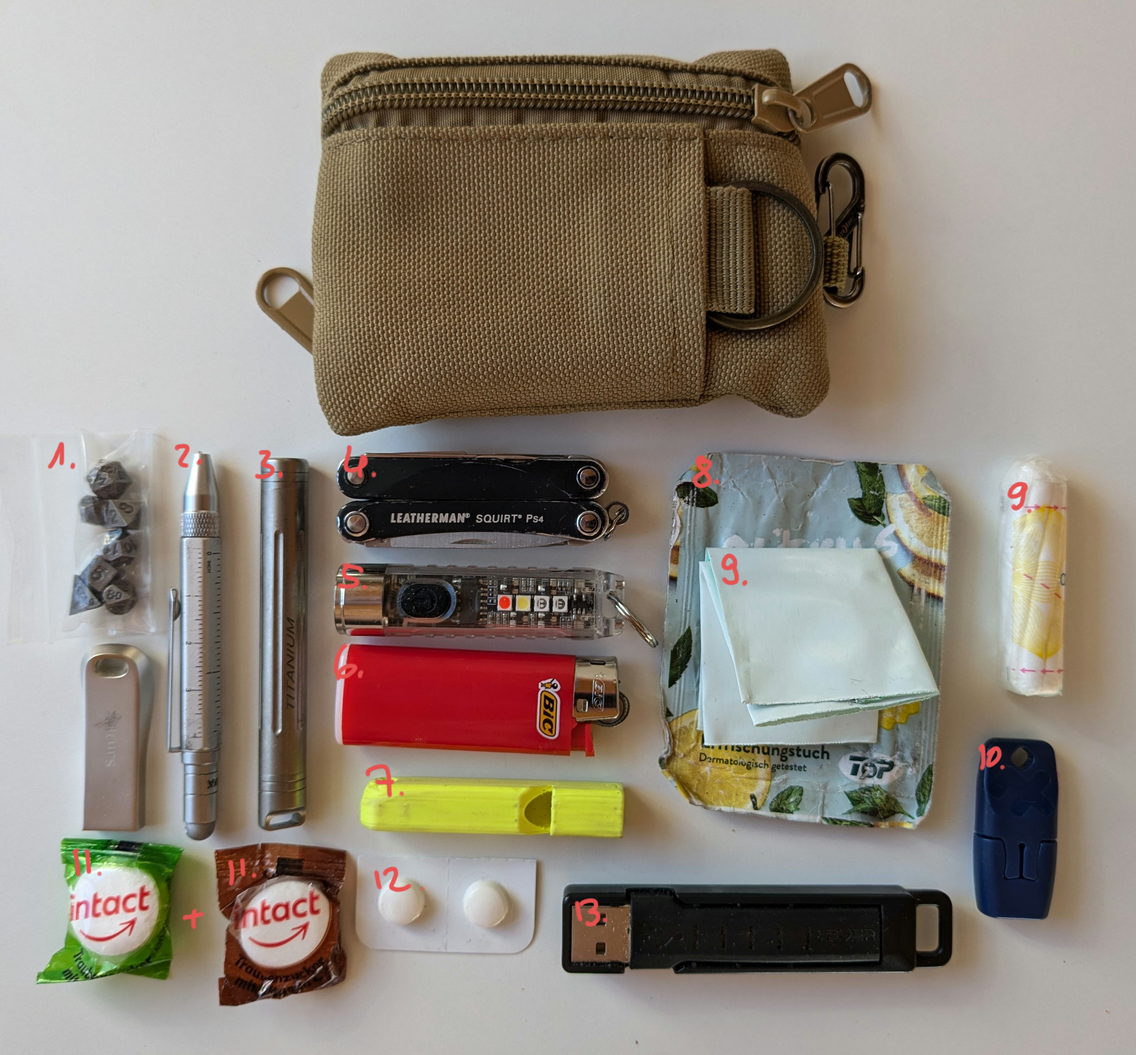
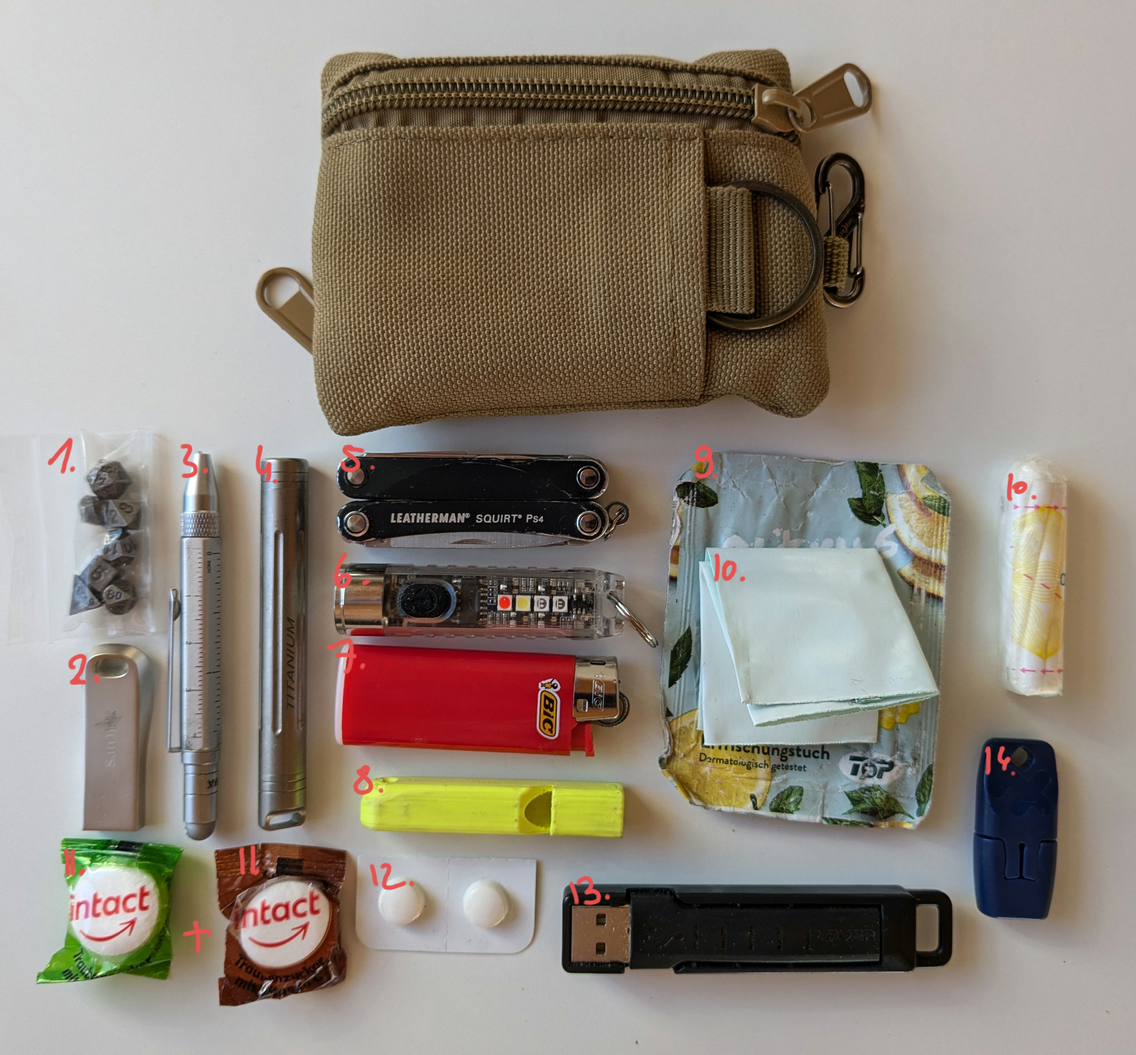
update EDC

diff --git a/content/blog/2024-08-08-edc-2024/index.md b/content/blog/2024-08-08-edc-2024/index.md
@@ -24,20 +24,23 @@ Unpacking it fully, it looks like this:
 So what is all this stuff? Here we go:
 
 1. a full miniature RPG dice set (you never know when you need to roll on something) 
-2. Troika Liliput pen (ballpoint pen, ruler, stylus, screwdriver)
-3. small pill tube with painkillers (I tend to get weather related headaches)
-4. Leatherman Squirt PS4
-5. small rechargeable LED flashlight (white light, red light & UV, plus emergency flashing)
-6. small lighter (I don't smoke, I just prefer to have a fire and emergency light source on me)
-7. 3d printed emergency whistle
-8. small refreshment towel (in case I need to wash my hands but can't)
-9. hygiene baggy & tampon (in case I misjudge my cycle or need to help someone else who misjudged theirs) 
-10. USB-C heat-it (little gadget I can plug into my phone and control from an app that helps with mosquito bites through heat - consider it a really portable form of the popular bite-away wand)
+2. 64GB USB stick (mostly empty for impromptu file transfers, but also something to watch in case I have to entertain myself in a hotel or something)
+3. Troika Liliput pen (ballpoint pen, ruler, stylus, screwdriver)
+4. small pill tube with painkillers (I tend to get weather related headaches)
+5. Leatherman Squirt PS4
+6. small rechargeable LED flashlight (white light, red light & UV, plus emergency flashing)
+7. small lighter (I don't smoke, I just prefer to have a fire and emergency light source on me)
+8. 3d printed emergency whistle
+9. small refreshment towel (in case I need to wash my hands but can't)
+10. hygiene baggy & tampon (in case I misjudge my cycle or need to help someone else who misjudged theirs) 
 11. two glucose sweets (always good to have something on hand for myself or others)
 12. meds against motion sickness (which I sadly suffer from greatly, especially in cars I'm not driving myself)
 13. short USB-C to USB-A cable for charging my phone, plus a SIM tool
-14. (not pictured) a key for a safe
+14. USB-C heat-it (little gadget I can plug into my phone and control from an app that helps with mosquito bites through heat - consider it a really portable form of the popular bite-away wand)
+15. (not pictured) a key for a safe
 
 And that's it with regards to my EDC! I'm currently thinking about sewing a custom pouch, as the store bought one I currently use could really use better zippers and a slightly different internal organisation, but that's a future project.
 
 I'll do my best to also add a post about my portable solder kit soon 😁 In the meantime, feel free to get in touch [on Mastodon](https://chaos.social/@foosel) for questions or comments!
+
+*edit* I forgot to label the USB stick earlier, this has now been fixed.
